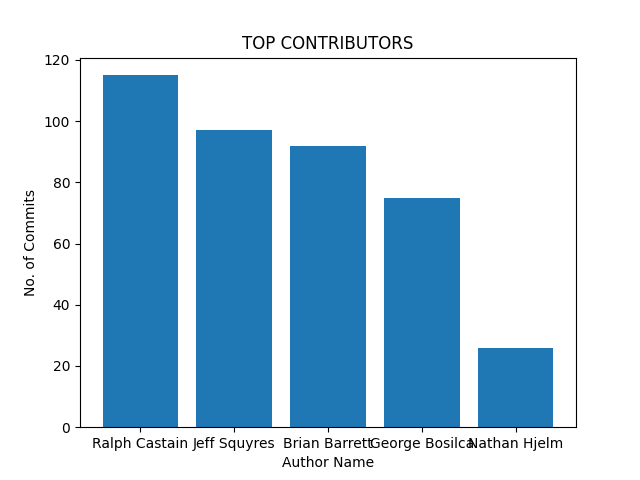
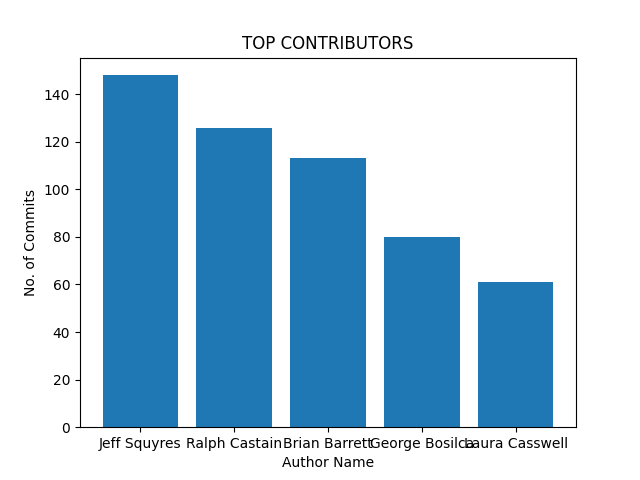
commit count time series plotted

diff --git a/gen-figures.py b/gen-figures.py
@@ -69,29 +69,30 @@ plt.ylim(0, 200)
 plt.savefig("prod_debug_plot.png")
 plt.show()
 
+data = pd.read_csv('author_count.csv')
 
-# series = pd.read_csv('commit_count.csv', header=0, index_col=0, parse_dates=True, squeeze=True)
-# series.plot()
-# plt.xlabel('Date')
-# plt.ylabel('No. of Commits')
-# plt.title('Number of commits in each year in Test')
-# plt.show()
-# plt.savefig('commit_count.png')
-# plt.close()
-#
-# data = pd.read_csv('author_count.csv')
-#
-# a = data.to_dict('records')
-# xx = {}
-# for b in a:
-#     xx[b['Author Name']] = b['Count']
-#
-# c = dict(sorted(xx.items(), key=lambda item: item[1], reverse=True))
-# Top5Authors = {k: c[k] for k in list(c)[0:5]}
-#
-# plt.bar(Top5Authors.keys(), Top5Authors.values())
-# plt.xlabel('Author Name')
-# plt.ylabel('No. of Commits')
-# plt.title('TOP CONTRIBUTORS')
-# plt.savefig('author_count.png')
-# plt.show()
+a = data.to_dict('records')
+xx = {}
+for b in a:
+    xx[b['Author Name']] = b['Count']
+
+c = dict(sorted(xx.items(), key=lambda item: item[1], reverse=True))
+Top5Authors = {k: c[k] for k in list(c)[0:5]}
+
+plt.bar(Top5Authors.keys(), Top5Authors.values())
+plt.xlabel('Author Name')
+plt.ylabel('No. of Commits')
+plt.title('TOP CONTRIBUTORS')
+plt.savefig('author_count.png')
+plt.show()
+plt.close()
+
+series = pd.read_csv('commit_count.csv', header=0, index_col=0, parse_dates=True)
+series.plot()
+plt.xlabel('Date')
+plt.ylabel('No. of Commits')
+plt.title('Number of commits in each year in Test')
+plt.savefig('commit_count.png')
+plt.show()
+plt.close()
+
